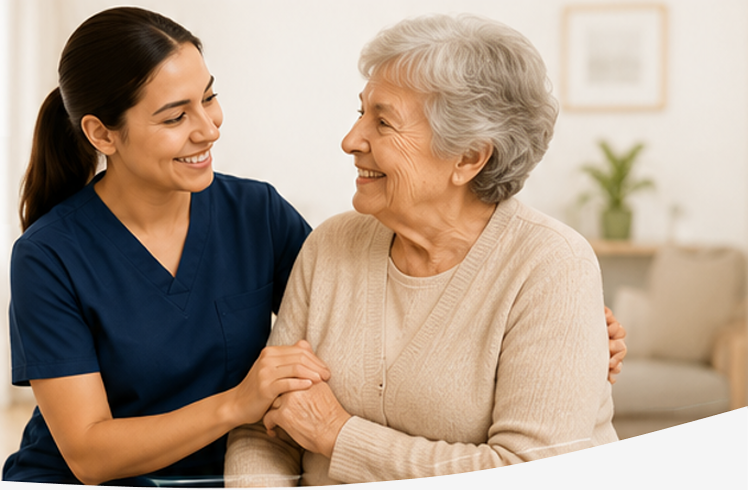
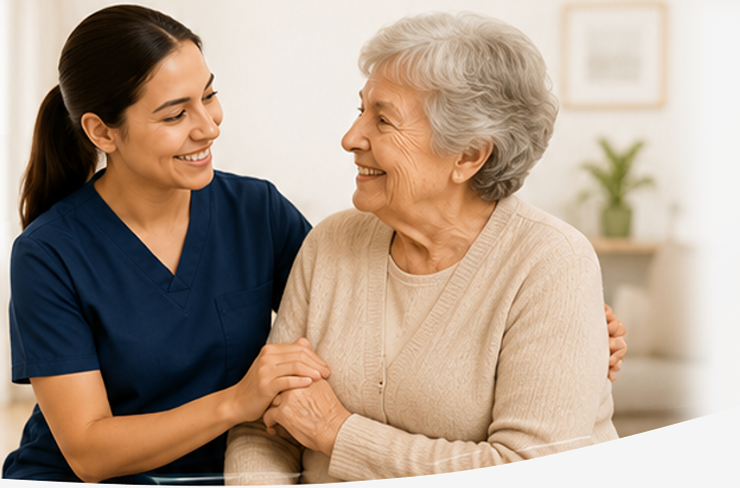
fix_media_buttons

diff --git a/index.html b/index.html
@@ -49,7 +49,7 @@
                 </ul>
               
                     <button class="btn_default">
-                        <a href="mailto:cuidadoreselite@gmail.com" target="_blank">
+                        <a href="https://wa.me/5511957931117" target="_blank">
                             Solicitar orçamento
                         </a>
                     </button>
@@ -110,12 +110,6 @@
                                 <span>Falar no WhatsApp</span>
                             </a>
                         </button>
-
-                            <button class="btn_default_transparent">
-                                <a href="mailto:cuidadoreselite@gmail.com" target="_blank">
-                                    <span>Orçamento</span> 
-                                </a>      
-                            </button>
                         
                     </div>
 
@@ -333,7 +327,11 @@
                             </div>
                         </div>
 
-                        <button class="btn_default_transparent">Solicitar orçamento</button>
+                        <button class="btn_default_transparent">
+                            <a href="https://wa.me/5511957931117" target="_blank">
+                                Fale com um especialista
+                            </a>
+                        </button>
                 </div>   
                                 
             </section>
@@ -366,7 +364,7 @@
                                         "Excelente serviço! Minha vó está sendo muito bem 
                                         cuidada, recebendo total carinho e atenção"
                                     </p>
-                                    <div class="testimonials_name"> <strong>Matheus O.</strong> 
+                                    <div class="testimonials_name"> <strong>Thiago F.</strong> 
                                         <span>
                                            <br>Neto da paciente
                                         </span>
@@ -386,9 +384,11 @@
                                         <i class="fa-solid fa-star"></i>
                                      </div>
                                     <p class="testimonials_text">
-                                        "Ótima empresa, donos super dedicados"
+                                        "Super recomendo a Elite, todos os profissionais 
+                                        que passaram na minha casa, e na casa da minha amiga
+                                        foram super atenciosos."
                                     </p>
-                                    <div class="testimonials_name"><strong>Matheus O.</strong>
+                                    <div class="testimonials_name"><strong>Ana C.</strong>
                                         <span>
                                            <br>Filha da paciente
                                         </span>
@@ -408,7 +408,7 @@
                                     </div>
                                     <p class="testimonials_text">
                                         "Meus agradecimentos especialmente a Vera,
-                                        Profissional muito atenciosa, nota dez ! "
+                                        Profissional muito atenciosa, nota dez !"
                                     </p>
                                     <div class="testimonials_name"><strong>Renato A.</strong>
                                         <span>
@@ -432,7 +432,7 @@
                                         "Super recomendo a Elite cuidadores, atenção
                                         24hrs, antes da contratação sanou todas as minhas dúvidas."
                                     </p>
-                                    <div class="testimonials_name"><strong>Matheus O.</strong>
+                                    <div class="testimonials_name"><strong>Gustavo G.</strong>
                                         <span>
                                            <br>Neto do paciente
                                         </span>
@@ -487,18 +487,6 @@
                         Cuidamos de quem você ama <br>
                         com carinho, dedicação e respeito.
                     </span>
-
-                    <div class="social_midia_buttons">
-                        <a href="">
-                            <i class="fa-brands fa-facebook"></i>
-                        </a>
-                        <a href="">
-                            <i class="fa-brands fa-instagram"></i>
-                        </a>
-                        <a href="https://wa.me/5511957931117" target="_blank">
-                            <i class="fa-brands fa-whatsapp"></i>
-                        </a>
-                    </div>
 
                 </div>
 

diff --git a/assets/css/footer.css b/assets/css/footer.css
@@ -65,16 +65,6 @@
     padding-left: 10px;
 }
 
-.social_midia_buttons {
-    display: flex;
-    gap: 20px;
-}
-
-.social_midia_buttons i {
-    color: whitesmoke;
-    font-size: 1.5rem;
-}
-
 @media screen and (max-width: 600px) {
     .footer_contact {
         display: none;
@@ -86,9 +76,5 @@
         justify-content: center;
         align-items: center;
         padding-bottom: 1rem;
-    }
-
-    .social_midia_buttons {
-        display: none;
     }
 }

diff --git a/assets/css/styles.css b/assets/css/styles.css
@@ -103,6 +103,7 @@ section {
     display: flex;
     align-items: center;
     justify-content: center;
+
     color: var(--white);
     border: none;
     padding: 10px 20px;

diff --git a/assets/css/testimonials.css b/assets/css/testimonials.css
@@ -32,6 +32,7 @@
     padding: 1rem 2rem;
     display: flex;
     flex-direction: column;
+    justify-content: space-evenly;
     gap: 1.6rem;
     height: 230px;
 }

diff --git a/assets/css/services.css b/assets/css/services.css
@@ -5,6 +5,7 @@
     flex-direction: column;
     align-items: center;
     justify-content: center;
+    margin: 1.5rem 0;
 }
 
 .content {

diff --git a/assets/css/about.css b/assets/css/about.css
@@ -38,7 +38,6 @@
 }
 
 .about_container button {
-    width: 12.5rem;
     margin-top: 1.8rem;
 }
 
